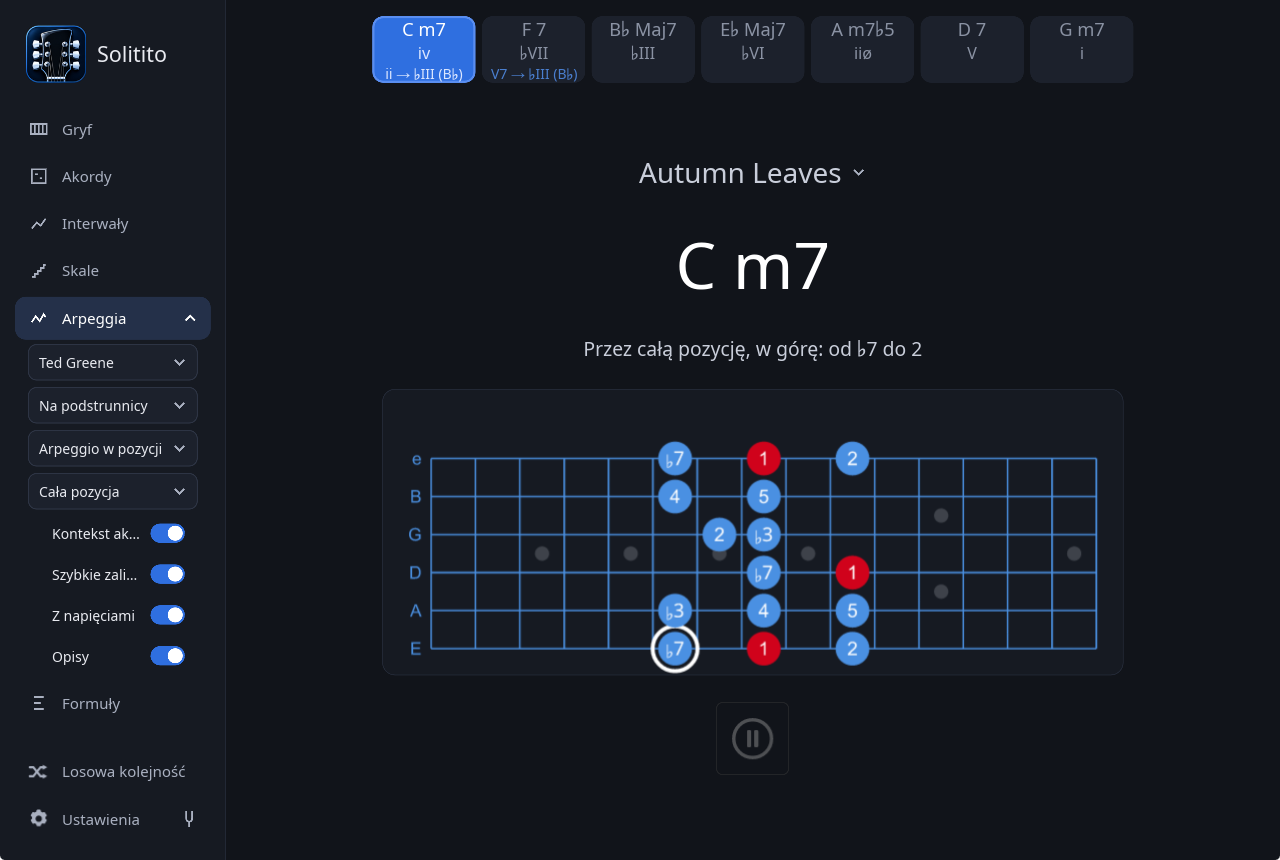
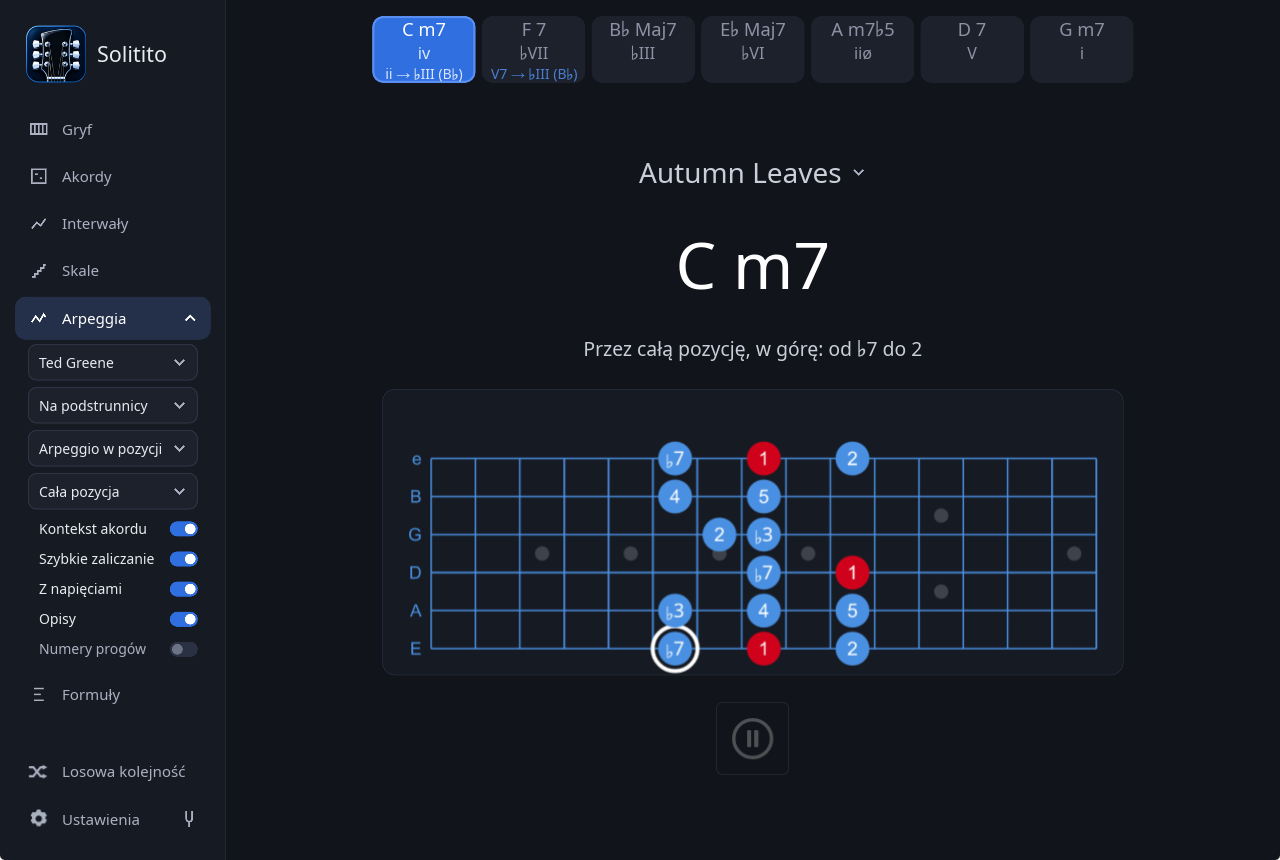
Fret numbers in quick options, interval tiles in Arpeggios
- quick option "Fret numbers" in Intervals, Scales and Arpeggios, where the view is a drawing
- smaller switches in the quick options; the switches of Arpeggios keep their labels whole
- Arpeggios: the tiles view, full-size tiles a page at a time, turning over with the phrase
- screenshots of Chords, Scales, Arpeggios and Formulas with the new switches

Changed region(s): [[0.0312, 0.6047, 0.1562, 0.8465]]

diff --git a/src/settings.rs b/src/settings.rs
@@ -365,7 +365,7 @@ pub enum Preview {
     Tab,
     /// The neck: every note where the finger goes.
     Neck,
-    /// The degrees as tiles. Intervals and Scales only.
+    /// The degrees as tiles. Intervals, Scales and Arpeggios only.
     Tiles,
 }
 
@@ -389,9 +389,9 @@ impl From<i32> for Preview {
 
 pub const PREVIEW_TILES: usize = Preview::Tiles as usize;
 
-/// Intervals and Scales, the modes that offer the tiles.
+/// Intervals, Scales and Arpeggios, the modes that offer the tiles.
 fn has_tiles(mode: usize) -> bool {
-    matches!(mode, 1 | 2)
+    matches!(mode, 1..=3)
 }
 
 /// How each mode shows its exercise when nothing has been saved for it.
@@ -732,12 +732,13 @@ mod tests {
         assert!(!s.set_preview_for(2, 0), "setting the same view changes nothing");
         assert!(!s.set_preview_for(9, 1), "a mode this build has no entry for");
         assert!(!s.set_preview_for(2, 7), "not one of the three views");
-        assert!(!s.set_preview_for(3, PREVIEW_TILES), "tiles outside Intervals and Scales");
+        assert!(!s.set_preview_for(5, PREVIEW_TILES), "tiles in Formulas, which has none");
         assert!(s.set_preview_for(1, PREVIEW_TILES), "tiles in Intervals");
         assert_eq!(s.preview_for(1), PREVIEW_TILES);
         assert!(s.set_preview_for(1, DEFAULT_PREVIEWS[1]), "and back");
         assert_eq!(s.preview_for(3), 2, "and neither refusal moved it");
         assert!(s.set_preview_for(2, PREVIEW_TILES), "tiles in Scales");
+        assert!(s.set_preview_for(3, PREVIEW_TILES), "tiles in Arpeggios");
     }
 
     /// A file written before the split carries one view for the whole app.
@@ -765,15 +766,16 @@ mod tests {
         assert_eq!(s.previews, DEFAULT_PREVIEWS.to_vec());
     }
 
-    /// The tiles survive a reload in Intervals, and only there.
+    /// The tiles survive a reload in the modes that have them, and only there.
     #[test]
-    fn tiles_are_kept_in_intervals_and_scales_alone() {
+    fn tiles_are_kept_in_the_note_modes_alone() {
         let mut s: Settings = serde_json::from_str(r#"{"startup_mode":0,"previews":[3,3,3,3,3,3]}"#)
             .expect("reads");
         s.fill_previews();
         let mut want = DEFAULT_PREVIEWS.to_vec();
         want[1] = PREVIEW_TILES;
         want[2] = PREVIEW_TILES;
+        want[3] = PREVIEW_TILES;
         assert_eq!(s.previews, want);
     }
 

diff --git a/src/i18n.rs b/src/i18n.rs
@@ -101,6 +101,8 @@ pub struct Strings {
     pub note_hint_hover: &'static str,
     /// The fretboard trainer's quick option: the hint with every note.
     pub chip_hint: &'static str,
+    /// The quick option of the modes with a drawing: `tab_frets`, said short.
+    pub chip_frets: &'static str,
     /// After the key a tune is written in, in the key list of Chords.
     pub key_original: &'static str,
     /// The shuffle's name in Scales, where it draws the key.
@@ -361,6 +363,7 @@ pub const EN: Strings = Strings {
     chip_drawn_hint: "Up or down",
     note_hint_hover: "Click to see a hint",
     chip_hint: "Hint",
+    chip_frets: "Fret numbers",
     key_original: " (original)",
     random_key: "Random key",
     there_and_back: "There and back",
@@ -598,6 +601,7 @@ pub const PL: Strings = Strings {
     chip_drawn_hint: "W górę lub w dół",
     note_hint_hover: "Kliknij, aby zobaczyć podpowiedź",
     chip_hint: "Podpowiedź",
+    chip_frets: "Numery progów",
     key_original: " (oryginał)",
     random_key: "Losowa tonacja",
     there_and_back: "Tam i z powrotem",
@@ -869,6 +873,7 @@ mod tests {
             ("chip_drawn_hint", EN.chip_drawn_hint, PL.chip_drawn_hint),
             ("note_hint_hover", EN.note_hint_hover, PL.note_hint_hover),
             ("chip_hint", EN.chip_hint, PL.chip_hint),
+            ("chip_frets", EN.chip_frets, PL.chip_frets),
             ("key_original", EN.key_original, PL.key_original),
             ("random_key", EN.random_key, PL.random_key),
             ("there_and_back", EN.there_and_back, PL.there_and_back),

diff --git a/src/ui_frame.rs b/src/ui_frame.rs
@@ -1060,10 +1060,10 @@ impl UiFrame {
         shown_names: &[String],
         jazz: bool,
     ) {
-        // Intervals draws the steps as tiles, with the note each degree
+        // The note modes draw the steps as tiles, with the note each degree
         // falls on in this chord. Pushed only when something changed:
         // a new model every frame would rebuild every tile.
-        if matches!(app.app_mode, AppMode::Intervals | AppMode::Scales)
+        if matches!(app.app_mode, AppMode::Intervals | AppMode::Scales | AppMode::Arpeggios)
             && Preview::from(ui.get_preview()) == Preview::Tiles
         {
             let key = formulas::parse_key(chord.root.to_string());
@@ -1368,7 +1368,8 @@ fn functions_over(app: &MyApp, chord: &Chord, jazz_names: bool) -> Vec<String> {
 /// E to e is fifteen notes, too narrow drawn at once.
 const TILES_PER_PAGE: usize = 8;
 
-/// The page of tiles the step due is on; all of them in Intervals.
+/// The page of tiles the step due is on; all of them in Intervals, and in
+/// Arpeggios, where the window scrolls the row itself.
 fn tiles_page(app: &MyApp, tiles: Vec<IntervalTile>) -> Vec<IntervalTile> {
     if app.app_mode != AppMode::Scales || tiles.len() <= TILES_PER_PAGE {
         return tiles;

diff --git a/src/main.rs b/src/main.rs
@@ -1030,6 +1030,7 @@ fn apply_language(ui: &AppWindow, lang: Lang, app: Option<&MyApp>) {
     g.set_chip_drawn_hint(t.chip_drawn_hint.into());
     g.set_note_hint_hover(t.note_hint_hover.into());
     g.set_chip_hint(t.chip_hint.into());
+    g.set_chip_frets(t.chip_frets.into());
     g.set_chip_e_to_e(t.scale_from_e_to_e.into());
     g.set_random_key(t.random_key.into());
     g.set_there_and_back(t.there_and_back.into());

diff --git a/docs/settings_pl.md b/docs/settings_pl.md
@@ -43,8 +43,8 @@ zakładka, a trener gryfu, który nie ma własnych ustawień, nie pokazuje jej w
 | **Dźwięków na akord** (ogrywanie zmian i linie Harrisa) | 8 na akord trwający takt, 4 na akord trwający pół taktu — wtedy pierwsza połowa figury. Przy ogrywaniu zmian 8 to dwie oktawy arpeggia, 4 jedna |
 | **W jednej pozycji** (ogrywanie zmian i linie Harrisa) | Całe przejście utworu pod jedną ręką, w pięciu progach; figura dopasowuje się do pozycji, a po każdym przejściu pozycja przenosi się w inne miejsce gryfu, od progów 0–4 do 8–12. Domyślnie włączone — zob. [ćwiczenie arpeggiów](arpeggios-practice_pl.md#w-jednej-pozycji) |
 | **Kierunek** | Przy ogrywaniu zmian: wznoszące, opadające albo naprzemiennie z każdej ze stron. Opadające to kształt ze studiów — od prymy **w dół** przez składniki akordu, a nie fraza wznosząca czytana od tyłu |
-| **Widok** | Trzy sposoby pokazania ćwiczenia: **linia funkcji interwałowych** (nazwy stopni), tabulatura albo sama podstrunnica. Ustawienie jest osobne dla każdego trybu i zapisywane — skala to kolejność dźwięków i czyta się jako tabulatura, chwyt to kształt ręki i mówi coś dopiero na podstrunnicy. Domyślnie tabulatura w Skalach i Arpeggiach, podstrunnica w Interwałach. Gryf nie ma widoków: dźwięk, o który prosi, stoi na kafelku, a podpowiedź pod nim rysuje całą podstrunnicę. Fraza — skala albo arpeggio — rysowana jest na podstrunnicy, z białym pierścieniem wokół dźwięku, który jest teraz na kolei, i zielenią na każdym miejscu już zagranym. Fraza w górę i w dół wraca do własnych miejsc, więc na szczycie kształt jest zielony w całości, a o tym, gdzie się jest w drodze powrotnej, mówi pierścień — pierścień jest też na tabulaturze, bo przy skali rozdanej w losowej kolejności to jedyne, co mówi, w którym miejscu się jest; obrazek ma rozmiar ręki niezależnie od długości frazy, więc studium na trzydzieści dźwięków pozostaje czytelne. Skala rysowana jest w losowanej pozycji — kształt jest wszędzie ten sam, a rzecz w tym, żeby go znać tam, gdzie ręka akurat stanie. W kółku stoi stopień w pisowni ćwiczenia, więc skala zapisująca podwyższoną sekundę jako `#2` czyta się na gryfie jako `♯2`. W Interwałach zbiór rysowany jest jako **chwyt**: schemat jak przy akordach, struny w poprzek i progi w dół, z pozycją obok — pasek ma na osi poziomej kolejność dźwięków, a to nie mówi nic o tym, gdzie idą palce. Przy włączonym **Najbliższy chwyt** — domyślnie — każdy chwyt brany jest tam, gdzie palce mają najmniej do przejścia od poprzedniego, więc progresja sama przechodzi przez gryf. Wyłączone: każdy akord brany jest tam, gdzie gryf go daje, i tak poznaje się jeden kształt po całym gryfie, a nie w jednym jego rogu; losowanie też wyłącza prowadzenie. Przy włączonym losowaniu nie ma czego prowadzić: akordy idą w wylosowanej kolejności, a każdy chwyt brany jest tam, gdzie gryf go daje. To, na której strunie leży kółko, jest oktawą, więc apostrofy przestają być potrzebne; zagrane zapala się na zielono w obu widokach. Interwały i Skale mają czwarty widok, **kafelki**: każdy stopień na karcie, z dźwiękiem, na który wypada w tym akordzie, i z tym, czy jest teraz, dalej, czy już zaliczony. Skala dłuższa niż osiem dźwięków pokazywana jest po osiem kafelków |
-| **Numery progów zamiast stopni** | Tylko na tym rysunku. Pryma zachowuje swój kolor |
+| **Widok** | Trzy sposoby pokazania ćwiczenia: **linia funkcji interwałowych** (nazwy stopni), tabulatura albo sama podstrunnica. Ustawienie jest osobne dla każdego trybu i zapisywane — skala to kolejność dźwięków i czyta się jako tabulatura, chwyt to kształt ręki i mówi coś dopiero na podstrunnicy. Domyślnie tabulatura w Skalach i Arpeggiach, podstrunnica w Interwałach. Gryf nie ma widoków: dźwięk, o który prosi, stoi na kafelku, a podpowiedź pod nim rysuje całą podstrunnicę. Fraza — skala albo arpeggio — rysowana jest na podstrunnicy, z białym pierścieniem wokół dźwięku, który jest teraz na kolei, i zielenią na każdym miejscu już zagranym. Fraza w górę i w dół wraca do własnych miejsc, więc na szczycie kształt jest zielony w całości, a o tym, gdzie się jest w drodze powrotnej, mówi pierścień — pierścień jest też na tabulaturze, bo przy skali rozdanej w losowej kolejności to jedyne, co mówi, w którym miejscu się jest; obrazek ma rozmiar ręki niezależnie od długości frazy, więc studium na trzydzieści dźwięków pozostaje czytelne. Skala rysowana jest w losowanej pozycji — kształt jest wszędzie ten sam, a rzecz w tym, żeby go znać tam, gdzie ręka akurat stanie. W kółku stoi stopień w pisowni ćwiczenia, więc skala zapisująca podwyższoną sekundę jako `#2` czyta się na gryfie jako `♯2`. W Interwałach zbiór rysowany jest jako **chwyt**: schemat jak przy akordach, struny w poprzek i progi w dół, z pozycją obok — pasek ma na osi poziomej kolejność dźwięków, a to nie mówi nic o tym, gdzie idą palce. Przy włączonym **Najbliższy chwyt** — domyślnie — każdy chwyt brany jest tam, gdzie palce mają najmniej do przejścia od poprzedniego, więc progresja sama przechodzi przez gryf. Wyłączone: każdy akord brany jest tam, gdzie gryf go daje, i tak poznaje się jeden kształt po całym gryfie, a nie w jednym jego rogu; losowanie też wyłącza prowadzenie. Przy włączonym losowaniu nie ma czego prowadzić: akordy idą w wylosowanej kolejności, a każdy chwyt brany jest tam, gdzie gryf go daje. To, na której strunie leży kółko, jest oktawą, więc apostrofy przestają być potrzebne; zagrane zapala się na zielono w obu widokach. Interwały, Skale i Arpeggia mają czwarty widok, **kafelki**: każdy stopień na karcie, z dźwiękiem, na który wypada w tym akordzie, i z tym, czy jest teraz, dalej, czy już zaliczony. Skala dłuższa niż osiem dźwięków pokazywana jest po osiem kafelków; arpeggio zachowuje kafelki w pełnym rozmiarze, tyle, ile mieści okno, a rząd przewija się w miarę grania frazy |
+| **Numery progów zamiast stopni** | Tylko na tym rysunku. Pryma zachowuje swój kolor. Także w szybkich opcjach Interwałów, Skal i Arpeggiów, jako *Numery progów*, gdy widok jest rysunkiem |
 | **Tonacja** | Skale: tonika, także w szybkich opcjach. Przy włączonej **Losowej tonacji** losowana od razu i od nowa po każdym przejściu, a z nią struna, od której zaczyna się skala. W Akordach szybkie opcje trzymają tonację utworu: inna transponuje każdy akord standardu, *(oryginał)* przywraca zapis, a nowy utwór zaczyna we własnej |
 | **Ćwiczenie** (interwały) | Które dźwięki każdego akordu i w jakiej kolejności — pięćdziesiąt ćwiczeń zapisanych stopniami i czytanych względem akordu: `3` i `7` to ta tercja i septyma, które akord ma, `2`, `4`, `6` i `9` pochodzą z jego skali (lidyjskiej nad wielką septymą, miksolidyjskiej nad dominantą, doryckiej nad małą septymą, lokryckiej z wielką noną nad półzmniejszonym, zmniejszonej ton-półton nad zmniejszonym, molowej melodycznej nad `m6` i `mMaj7`). Po kolei: pojedyncze składniki, pary, triady i czterodźwięki, także w losowym przewrocie (↻); czterodźwiękowe struktury od prymy i od kwinty w czterech kolejnościach; prowadzenie głosów dla II-V-I, gdzie komórka każdego akordu kończy się o krok od miejsca, w którym zaczyna się następna; zawieszenie rozwiązane na tercję; i skala akordu przez oktawę, od 1, 3, 5, 7 albo od losowanego dźwięku, z dźwiękiem przejściowym — `(7)` albo `(#5)` — który stawia każdy składnik akordu na mocnej części taktu, albo bez niego. Losowanie rozdaje w innej kolejności zestawy i pierwszą komórkę każdej struktury; reszta grana jest tak, jak zapisano. Stopnie zapisane są zwykłymi numerami, bez oktawy — `5 6 7 2`, `1 3 5 7 1`: sędzia słyszy, który to dźwięk, a nie jak wysoko, więc każdy można zagrać tam, gdzie ręka go ma |
 | **Interwały** | Skale i Arpeggia: stopnie przebiegu jako tekst. `3` obejmuje tercję wielką i małą, `5` kwintę czystą i zmniejszoną, zależnie od jakości akordu. Powyżej oktawy numery złożone — `9`, `10`, `12` — albo apostrof, `5'`; poniżej prymy przecinek, `5,` |
@@ -125,9 +125,9 @@ sięgać w trakcie grania:
 | tryb | szybkie opcje |
 |---|---|
 | Akordy | tonacja utworu, **Pełne chwyty**, **Shelle**, **Trzymaj jakość**, **Krótkie uderzenia**, **Pasek akordów** |
-| Interwały | ćwiczenie, widok, **Pojedynczo**, **Po kolei**, **Tylko uderzone**, przy Pojedynczo **Szybkie zaliczanie**, **Pasek akordów**, **Opisy** |
-| Skale | tonacja, widok, **W górę**, **W dół**, **Losowo**, **Po kolei**, **Od E do e**, **Tam i z powrotem**, **Szybkie zaliczanie**, **Opisy** |
-| Arpeggia | ćwiczenie, widok; w studium tonacja i akord, przy ogrywaniu zmian kierunek, w liniach Harrisa akordy tonacji albo utworu, tonacja i figura, w obu tych ćwiczeniach start, liczba dźwięków na akord, **W jednej pozycji** i **Kontekst akordu**, a w ćwiczeniu Ted Greene figura, liczba dźwięków na akord, **Kontekst akordu** i **Z napięciami**; zawsze **Szybkie zaliczanie** i **Opisy** |
+| Interwały | ćwiczenie, widok, **Pojedynczo**, **Po kolei**, **Tylko uderzone**, przy Pojedynczo **Szybkie zaliczanie**, **Pasek akordów**, **Opisy**, na podstrunnicy **Numery progów** |
+| Skale | tonacja, widok, **W górę**, **W dół**, **Losowo**, **Po kolei**, **Od E do e**, **Tam i z powrotem**, **Szybkie zaliczanie**, **Opisy**, na rysunku **Numery progów** |
+| Arpeggia | ćwiczenie, widok; w studium tonacja i akord, przy ogrywaniu zmian kierunek, w liniach Harrisa akordy tonacji albo utworu, tonacja i figura, w obu tych ćwiczeniach start, liczba dźwięków na akord, **W jednej pozycji** i **Kontekst akordu**, a w ćwiczeniu Ted Greene figura, liczba dźwięków na akord, **Kontekst akordu** i **Z napięciami**; zawsze **Szybkie zaliczanie** i **Opisy**, na rysunku **Numery progów** |
 | Formuły | ćwiczenie, liczba dźwięków w formule, **Pojedynczo**, **Po kolei**, przy Pojedynczo **Szybkie zaliczanie** |
 | Gryf | **Szybkie zaliczanie** i **Podpowiedź**: gryf do 15. progu z każdym miejscem szukanego dźwięku, przy każdym dźwięku; wyłączona, pokazuje ją jednorazowo kliknięcie w dźwięk |
 

diff --git a/docs/settings.md b/docs/settings.md
@@ -43,8 +43,8 @@ fretboard trainer, which has no settings of its own, does not show it at all:
 | **Notes per chord** (over the changes and Harris lines) | 8 for a chord lasting a bar, 4 for one lasting half a bar — the first half of the figure. Over the changes 8 is two octaves of the arpeggio, 4 is one |
 | **In one position** (over the changes and Harris lines) | The whole pass of the tune under one hand, five frets wide; the figure fits itself to the position, and after every pass the position moves to another place on the neck, from frets 0–4 to 8–12. On by default — see [practising arpeggios](arpeggios-practice.md#in-one-position) |
 | **Direction** | Over the changes: ascending, descending, or alternating from either side. Descending is the shape the studies use — from the root **downwards** through the chord's own tones, not the ascending phrase read backwards |
-| **View** | Three ways to show the exercise: the **line of interval functions** (the degree names), tablature, or the neck itself. Kept per mode and remembered — a scale is an order of notes and reads as tablature, a grip is a hand shape and says nothing until it is on the neck. Tablature by default in Scales and Arpeggios, the neck in Intervals. The fretboard trainer has no views: the note asked for is a tile, and the hint under it draws the whole neck. A phrase — a scale or an arpeggio — is drawn on the neck it is played on, with the note due ringed in white and every place already played green. An up-and-down phrase comes back to its own places, so by the turn the shape is green all through and the ring is what says where the player is on the way down — the tablature rings it too, which is what tells you where you are in a scale dealt in a drawn order; the picture is the size of a hand however long the phrase is, so a thirty-note study stays readable. A scale is drawn in a position drawn at random — the shape is the same everywhere, and the point is to know it wherever the hand lands. Each dot carries the degree as the exercise writes it, so a scale spelling its altered second `#2` reads `♯2` on the neck too. In Intervals the set is drawn as a GRIP: a chord box like the shape diagrams, strings across and frets down, with the position beside it — a strip has the ORDER of the notes on its horizontal axis, which says nothing about where the fingers go. With **Nearest grip** on — the default — each grip is taken where the fingers have least to move from the one before, so a progression walks itself across the neck. Off, every chord is taken wherever the neck is drawn to offer it, which is how one shape is learned all over the neck instead of in one corner of it; the shuffle switches the leading off as well. With the shuffle on there is no line to lead: the chords come in a drawn order and each grip is taken where the neck offers it. Which string a dot sits on is the octave, so nothing needs an apostrophe; what has been played lights green either way. Intervals and Scales have a fourth view, **tiles**: each degree on a card, with the note it falls on this chord and whether it is due, still to come or done. A scale longer than eight notes is shown eight tiles at a time |
-| **Fret numbers instead of degrees** | In that drawing only. The root keeps its colour |
+| **View** | Three ways to show the exercise: the **line of interval functions** (the degree names), tablature, or the neck itself. Kept per mode and remembered — a scale is an order of notes and reads as tablature, a grip is a hand shape and says nothing until it is on the neck. Tablature by default in Scales and Arpeggios, the neck in Intervals. The fretboard trainer has no views: the note asked for is a tile, and the hint under it draws the whole neck. A phrase — a scale or an arpeggio — is drawn on the neck it is played on, with the note due ringed in white and every place already played green. An up-and-down phrase comes back to its own places, so by the turn the shape is green all through and the ring is what says where the player is on the way down — the tablature rings it too, which is what tells you where you are in a scale dealt in a drawn order; the picture is the size of a hand however long the phrase is, so a thirty-note study stays readable. A scale is drawn in a position drawn at random — the shape is the same everywhere, and the point is to know it wherever the hand lands. Each dot carries the degree as the exercise writes it, so a scale spelling its altered second `#2` reads `♯2` on the neck too. In Intervals the set is drawn as a GRIP: a chord box like the shape diagrams, strings across and frets down, with the position beside it — a strip has the ORDER of the notes on its horizontal axis, which says nothing about where the fingers go. With **Nearest grip** on — the default — each grip is taken where the fingers have least to move from the one before, so a progression walks itself across the neck. Off, every chord is taken wherever the neck is drawn to offer it, which is how one shape is learned all over the neck instead of in one corner of it; the shuffle switches the leading off as well. With the shuffle on there is no line to lead: the chords come in a drawn order and each grip is taken where the neck offers it. Which string a dot sits on is the octave, so nothing needs an apostrophe; what has been played lights green either way. Intervals, Scales and Arpeggios have a fourth view, **tiles**: each degree on a card, with the note it falls on this chord and whether it is due, still to come or done. A scale longer than eight notes is shown eight tiles at a time; an arpeggio keeps its tiles at full size, as many as the window takes, and the row turns over as the phrase goes on |
+| **Fret numbers instead of degrees** | In that drawing only. The root keeps its colour. Also in the quick options of Intervals, Scales and Arpeggios, as *Fret numbers*, while the view is a drawing |
 | **Key** | Scales: the tonic, also in the quick options. With **Random key** on it is drawn at once and again after each pass, and the string the scale starts from with it. In Chords the quick options hold the key of the song: another key transposes every chord of the standard, *(original)* puts it back, and a new song starts in its own |
 | **Exercise** (intervals) | Which tones of each chord, and in what order — fifty exercises, written as degrees and read against the chord: `3` and `7` are whatever third and seventh the chord has, `2`, `4`, `6` and `9` come from its scale (Lydian over a major seventh, Mixolydian over a dominant, Dorian over a minor seventh, Locrian with a natural ninth over a half-diminished chord, whole-half over a diminished one, melodic minor over `m6` and `mMaj7`). In order: single chord tones, pairs, triads and four-note chords, also as a random inversion (↻); four-note structures from the root and from the fifth in four orders; voice leading for II-V-I, where each chord's cell ends a step from where the next one starts; a suspension resolving to the third; and the chord's scale through an octave, from the 1, 3, 5, 7 or a drawn tone, with or without the passing note — `(7)` or `(#5)` — that puts every chord tone on a beat. The shuffle deals the sets and the first cell of each structure in another order; the rest are played as written. The degrees are written plain, without the octave - `5 6 7 2`, `1 3 5 7 1`: the judge hears which note and not how high, so each may be played wherever the hand has it |
 | **Intervals** | Scales and Arpeggios: the degrees of the run, as text. `3` matches both major and minor thirds, `5` perfect and diminished fifths, according to the chord quality. Above the octave the compound numbers — `9`, `10`, `12` — or an apostrophe, `5'`; below the root a comma, `5,` |
@@ -118,9 +118,9 @@ reaching for while playing:
 | mode | quick options |
 |---|---|
 | Chords | the key of the song, **Full chords**, **Shell voicings**, **Hold the quality**, **Short strums**, **Chord strip** |
-| Intervals | the exercise, the view, **Single notes**, **In order**, **Struck only**, with Single notes **Quick crediting**, **Chord strip**, **Captions** |
-| Scales | the key, the view, **Up**, **Down**, **Random**, **In order**, **From E to e**, **There and back**, **Quick crediting**, **Captions** |
-| Arpeggios | the exercise, the view; in a study the key and the chord, over the changes the direction, in Harris lines a key's chords or the tune's, the key and the figure, in both of these the start, the notes per chord, **In one position** and **Chord context**, and in Ted Greene the figure, the notes per chord, **Chord context** and **With tensions**; always **Quick crediting** and **Captions** |
+| Intervals | the exercise, the view, **Single notes**, **In order**, **Struck only**, with Single notes **Quick crediting**, **Chord strip**, **Captions**, on the neck **Fret numbers** |
+| Scales | the key, the view, **Up**, **Down**, **Random**, **In order**, **From E to e**, **There and back**, **Quick crediting**, **Captions**, in a drawing **Fret numbers** |
+| Arpeggios | the exercise, the view; in a study the key and the chord, over the changes the direction, in Harris lines a key's chords or the tune's, the key and the figure, in both of these the start, the notes per chord, **In one position** and **Chord context**, and in Ted Greene the figure, the notes per chord, **Chord context** and **With tensions**; always **Quick crediting** and **Captions**, in a drawing **Fret numbers** |
 | Formulas | the exercise, the notes in a formula, **Single notes**, **In order**, with Single notes **Quick crediting** |
 | Fretboard | **Quick crediting** and **Hint**: the neck to the fifteenth fret with the note asked for at every place, shown with every note; off, a click on the note shows it once |
 
